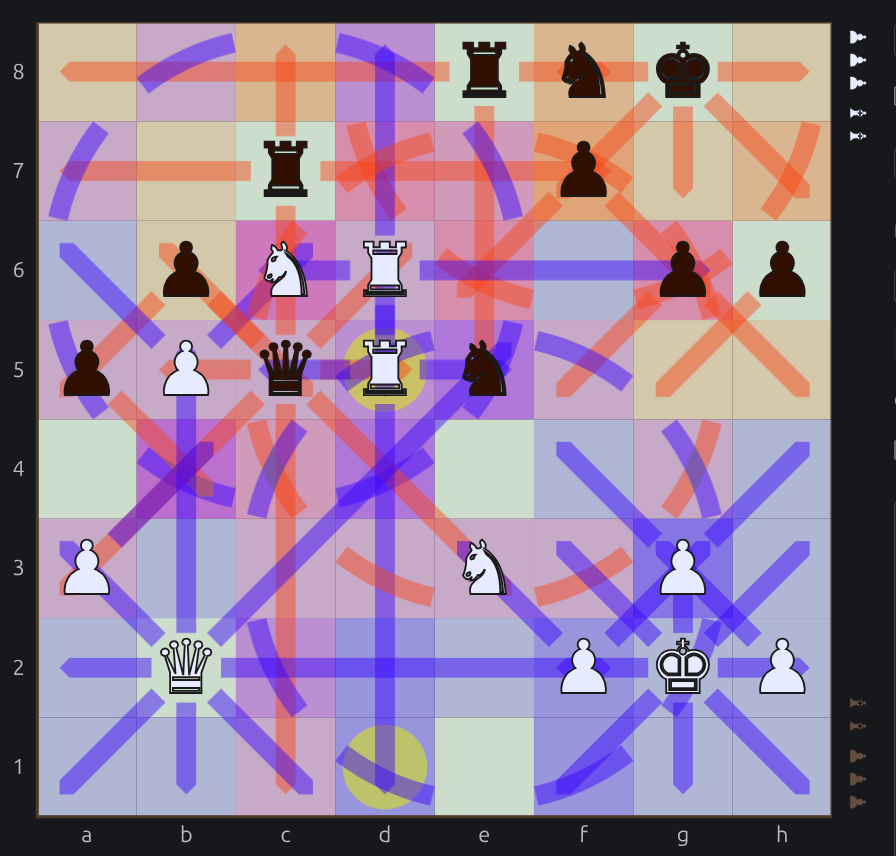
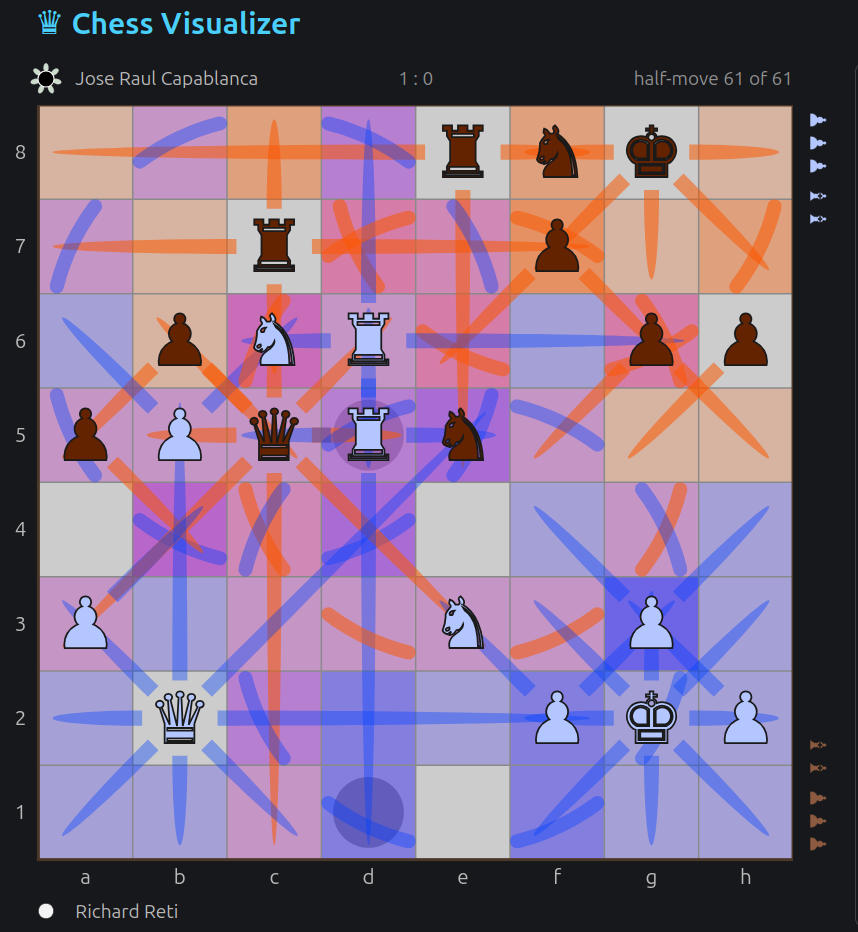
manual readme corrrection

diff --git a/README.md b/README.md
@@ -1,6 +1,6 @@
 # Chess Visualizer
 
-## Blunder less. See the board. Spot the threats. Plan attacks.
+## Play without blunders. See the board. Spot the threats. Plan attacks.
 
 Love chess but hate missing the obvious?
 
@@ -10,23 +10,18 @@ Chess Visualizer is an educational software that reveals the structure of a posi
 
 ### Features
 
-- **Attack rays** — see exactly which squares every piece attacks.
-
-  ![Attack rays](img/attack-rays.png)
-
-- **Attack heatmap** — color-shaded squares by attacking side and pressure intensity.
-
-  ![Attack heatmap](img/attack-heatmap.png)
+- **Attack rays and heatmap** — see exactly which squares every piece attacks.
+  ![Attack rays and heatmap](img/attack-rays-and-heatmap.png)
 
 - **Fully customizable visualization** — configure every color and nearly every aspect of the visualization geometry.
 
-- **It takes two to tango** — play online with a friend, no sign-up; resume a game, take up an unfinished one from a PGN, play with odds, and allow takebacks.
+- **It takes two to tango** — play online with a friend, no sign-up; play several games in parallel; play with odds or from a non-standard position, and allow takebacks.
 
 - **Classic games and PGN / FEN support** — explore famous games from the built-in library, import and export games and positions in PGN / FEN format.
 
-- **And plenty more** — share a position or a game as a link, read the material balance off the captured-pieces bar, and put a game aside in the stash while you look at another.
+- **And plenty more** — auto-play games, share a position or a game as a link, read the material balance off the captured-pieces bar, put a game aside in the stash while you look at another.
 
-Learn. Play. Enjoy.
+Learn. Play. Enjoy!
 
 **Give it a try and share your thoughts!**
 
